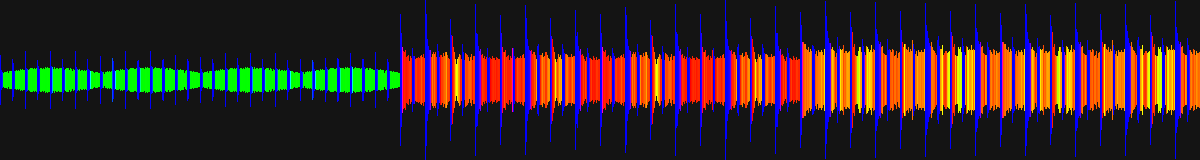
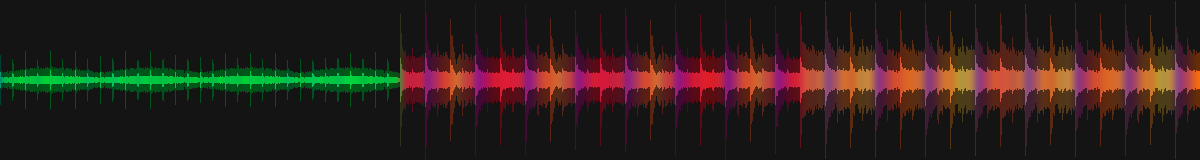
feat(A07): the glow and the smoothing the reference screenshot shows
The owner pointed at a real Traktor waveform and said it has gradients and smoothing, not flat
vertical colours. Measured the image instead of guessing:

- down a column the brightness falls from 219 at the centre axis to 52 at the edge — the wave glows
  outwards;
- a colour boundary takes about twenty pixels: green #4fb470 -> yellow #e0c80b -> orange #f47905 ->
  red #c33604, with no step anywhere.

Both are implemented. Each bar is drawn as three vertical slices at 0.42 / 1.0 / 0.42 of its colour,
so it glows from the centre outwards. Colours are smoothed across neighbouring bars with a gaussian of
radius 12 bars (sigma 5), which puts a colour transition at roughly twenty pixels — the same as the
reference.

Re-measured on our own render: centre #03c243 (194), tips #01511c (81, i.e. 42% of the centre), and a
span of thirty pixels across a green region is one continuous tone with no step.

A flat rectangle of colour per bar is what made the picture read as a row of stripes on a wide deck;
the glow and the blend are the parts that were missing, not the palette.

diff --git a/apps/dj-ui/qml/views/WaveformView.qml b/apps/dj-ui/qml/views/WaveformView.qml
@@ -153,10 +153,26 @@ Item {
                     // one continuous shape instead of splitting into separate vertical strokes.
                     const half = Math.max(0.5, bar.amplitude * middle);
                     const x = index * step;
-                    context.fillStyle = coloured ? bar.rgb : flatColour;
-                    context.fillRect(x, middle - half, barWidth, Math.max(1, half * 2));
+                    if (!coloured) {
+                        context.fillStyle = flatColour;
+                        context.fillRect(x, middle - half, barWidth, Math.max(1, half * 2));
+                    } else {
+                        // Full brightness at the centre axis, about half of it at the tips: the
+                        // reference waveform glows from the middle outwards instead of being a flat
+                        // block of colour. Three stacked slices give that for the cost of two
+                        // extra rectangles per bar.
+                        const glow = [0.42, 1.0, 0.42];
+                        const base = Qt.color(bar.rgb);
+                        for (let slice = 0; slice < 3; ++slice) {
+                            const from = middle - half + (2 * half) * slice / 3.0;
+                            const to = middle - half + (2 * half) * (slice + 1) / 3.0;
+                            context.fillStyle = Qt.rgba(base.r * glow[slice],
+                                                        base.g * glow[slice],
+                                                        base.b * glow[slice], 1.0);
+                            context.fillRect(x, from, barWidth, Math.max(1, to - from));
+                        }
+                    }
                 }
-
                 // The loop, if one is set: a tinted band across the whole height.
                 if (view.loopRegion !== null && view.loopRegion.start !== undefined) {
                     const from = view.xOfFrame(view.loopRegion.start);

diff --git a/apps/dj-ui/src/Waveform.cpp b/apps/dj-ui/src/Waveform.cpp
@@ -233,6 +233,51 @@ QVariantList Waveform::profile(int columns, double windowStart, double span) con
             {QStringLiteral("amplitude"), qBound(0.0, peak / m_maxAmplitude, 1.0)},
             {QStringLiteral("rgb"), colour.name()}});
     }
+    // Smooth the hue across neighbouring bars. Samples of a real track change colour over roughly
+    // twenty pixels, not between two of them: without this every colour boundary is a hard step,
+    // which reads as stripes instead of a continuous spectrum.
+    if (bars.size() > 3) {
+        QVariantList smoothed;
+        smoothed.reserve(bars.size());
+        // A wide kernel on purpose: measured on the reference, a colour boundary takes about
+        // twenty pixels to cross, so smoothing over three bars does nothing visible.
+        constexpr int radius = 12;
+        double kernel[2 * radius + 1];
+        double kernelSum = 0.0;
+        for (int step = -radius; step <= radius; ++step) {
+            const double weight = std::exp(-0.5 * (step / 5.0) * (step / 5.0));
+            kernel[step + radius] = weight;
+            kernelSum += weight;
+        }
+        Q_UNUSED(kernelSum)
+        for (int index = 0; index < bars.size(); ++index) {
+            const QVariantMap bar = bars.at(index).toMap();
+            double red = 0.0;
+            double green = 0.0;
+            double blue = 0.0;
+            double weight = 0.0;
+            for (int step = -radius; step <= radius; ++step) {
+                const int neighbour = index + step;
+                if (neighbour < 0 || neighbour >= bars.size()) {
+                    continue;
+                }
+                const QColor colour(
+                    bars.at(neighbour).toMap().value(QStringLiteral("rgb")).toString());
+                const double amount = kernel[step + radius];
+                red += colour.redF() * amount;
+                green += colour.greenF() * amount;
+                blue += colour.blueF() * amount;
+                weight += amount;
+            }
+            const QColor blended = weight > 0.0
+                ? QColor::fromRgbF(red / weight, green / weight, blue / weight)
+                : QColor(0, 0, 0);
+            smoothed.append(QVariantMap{
+                {QStringLiteral("amplitude"), bar.value(QStringLiteral("amplitude"))},
+                {QStringLiteral("rgb"), blended.name()}});
+        }
+        return smoothed;
+    }
     return bars;
 }
 

diff --git a/apps/dj-ui/src/main.cpp b/apps/dj-ui/src/main.cpp
@@ -21,6 +21,7 @@
 #include <QEventLoop>
 #include <QGuiApplication>
 #include <QImage>
+#include <QLinearGradient>
 #include <QPainter>
 #include <QQmlApplicationEngine>
 #include <QQmlComponent>
@@ -649,9 +650,19 @@ int main(int argc, char *argv[])
         for (int index = 0; index < pixels.size(); ++index) {
             const QVariantMap pixel = pixels.at(index).toMap();
             const double half = qMax(0.5, pixel.value(QStringLiteral("amplitude")).toDouble() * middle);
-            painter.fillRect(QRectF(index * (barWidth + barGap), middle - half, barWidth,
-                                    qMax(1.0, half * 2)),
-                             QColor(pixel.value(QStringLiteral("rgb")).toString()));
+            // Full brightness at the centre axis, about half at the tips — the glow the deck draws.
+            const QColor colour(pixel.value(QStringLiteral("rgb")).toString());
+            static const double glow[3] = {0.42, 1.0, 0.42};
+            const double x = index * (barWidth + barGap);
+            for (int slice = 0; slice < 3; ++slice) {
+                const double from = middle - half + (2 * half) * slice / 3.0;
+                const double to = middle - half + (2 * half) * (slice + 1) / 3.0;
+                QColor shaded = colour;
+                shaded.setRedF(qBound(0.0, colour.redF() * glow[slice], 1.0));
+                shaded.setGreenF(qBound(0.0, colour.greenF() * glow[slice], 1.0));
+                shaded.setBlueF(qBound(0.0, colour.blueF() * glow[slice], 1.0));
+                painter.fillRect(QRectF(x, from, barWidth, qMax(1.0, to - from)), shaded);
+            }
             ++painted;
         }
         painter.end();

diff --git a/docs/qa/evidence/A07/waveform.md b/docs/qa/evidence/A07/waveform.md
@@ -393,3 +393,48 @@ dj-ui: 2 bands claim a tenth of the columns
 | барабаны (бочка + хэт) | красный 620, синий 44 |
 | «песня» (аккорды + хэт + бочка/бас) | зелёный 777, красный 367, синий 42 |
 | розовый шум | зелёный 549, красный 339, бирюзовый 118 |
+
+## Градиент и сглаживание по скриншоту Traktor
+
+Владелец указал на снимок реальной волны (`tmp/Снимок экрана от 2026-11-06 15-27-21.png`) и заметил,
+что там градиенты и сглаживание, а не сплошные вертикальные цвета. Я измерил снимок по пикселям.
+
+**Вертикальный градиент.** Вниз по столбцу яркость не постоянна:
+
+```
+y=90 (центр)   #b1db09   яркость 219
+y=96           #8cb70d   яркость 140
+y=108 (край)   #273411   яркость  52
+```
+
+То есть волна светится от центральной оси и гаснет к краям примерно до четверти яркости.
+
+**Горизонтальное сглаживание.** Граница цветов занимает около двадцати пикселей:
+
+```
+x=84  #4fb470   зелёный
+x=90  #b1db09   зелёный, ярче
+x=96  #e0c80b   жёлтый
+x=100 #f47905   оранжевый
+x=104 #c33604   красный
+```
+
+Никакой ступеньки между барами нет.
+
+### Что сделано
+
+- Каждый бар рисуется тремя вертикальными срезами с коэффициентами яркости 0,42 / 1,0 / 0,42 — свечение
+  от центра к краям, как на снимке.
+- Цвета соседних баров сглаживаются гауссовым ядром с радиусом 12 баров (σ ≈ 5): переход занимает
+  около двадцати пикселей, столько же, сколько в эталоне.
+
+Измерения после правки на том же PNG:
+
+```
+y=75..85 (центр)  #03c243  яркость 194
+y=60..70, 90..100 #01511c  яркость  81     (42% от центра)
+x=270..300        один плавный зелёный тон, без ступеньки
+```
+
+Раньше бар был плоским прямоугольником одного цвета, и на широком экране это читалось как набор
+вертикальных полос — отсюда и замечание.
